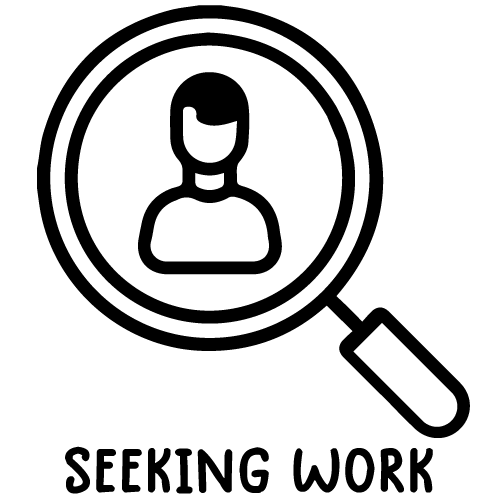
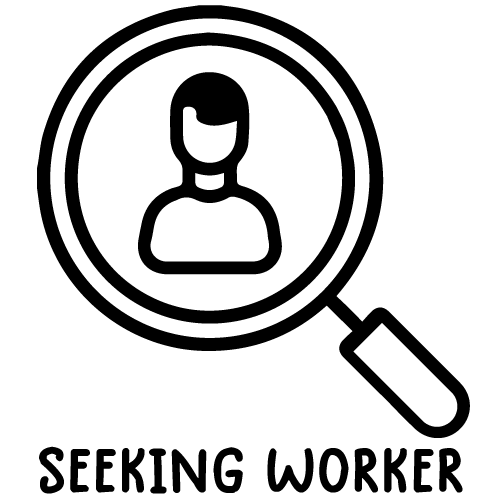
sdf

Changed region(s): [[0.24, 0.87, 0.93, 0.99], [0.06, 0.87, 0.21, 0.99]]

diff --git a/css/style.css b/css/style.css
@@ -2392,19 +2392,32 @@ h3 {
   width: 80%;
 }
 
+.border-adjust{
+  border-left: 1px solid black;
+}
+
 .intro {
   padding-top: 145px;
+  background: #000;
+  padding-bottom: 25px;
    
 }
 .intro p{
- color: #000;
-   
+     color: rgb(255, 255, 255);
+    text-align: justify;
+    font-size: 25.9px;
+    line-height: 1.7;
 }
 
 @media(max-width:992px) {
   .intro {
     padding-top: 115px;
-  }
+  } 
+}
+@media(max-width:768px) {
+   .border-adjust{
+  border-left: 0 ;
+}
 }
 
 .popular_catagory_area .single_catagory a h4 {

diff --git a/index.html b/index.html
@@ -88,7 +88,7 @@
     </section>
 
       <!-- job_searcing_wrap  -->
-    <div class="job_searcing_wrap py-5 mt-4" style="margin-top: 5.3rem;">
+    <div class="job_searcing_wrap py-5 mt-0" style="margin-top: 5.3rem;">
         <div class="container">
             <div class="row">
                 <div class="col-lg-6  col-md-6 text-center text-lg-right px-4 ">
@@ -97,7 +97,7 @@
                        SEEKING WORKER
                    </div> -->
                 </div>
-                <div class="col-lg-6  col-md-6 text-center text-lg-left  px-4 ">
+                <div class="col-lg-6  col-md-6 text-center text-lg-left  px-4 border-adjust" >
                       <img src="./images/mag-person.png" class="img-fluid w-75">
                       <!-- <div class="title fs-1">
                       SEEKING WORK